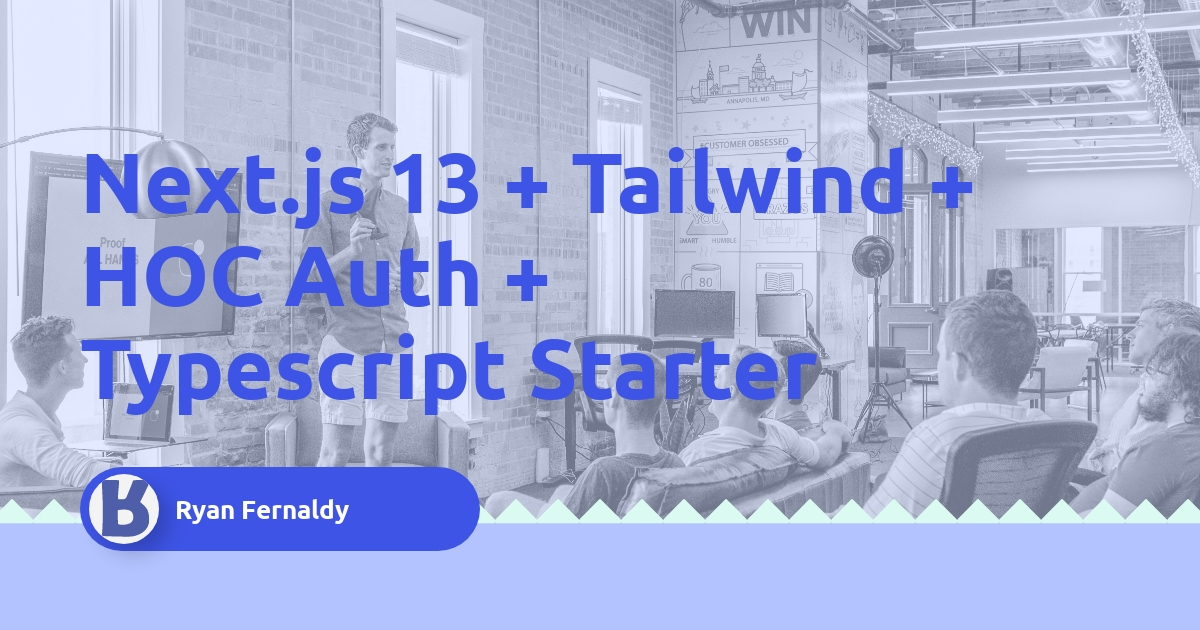
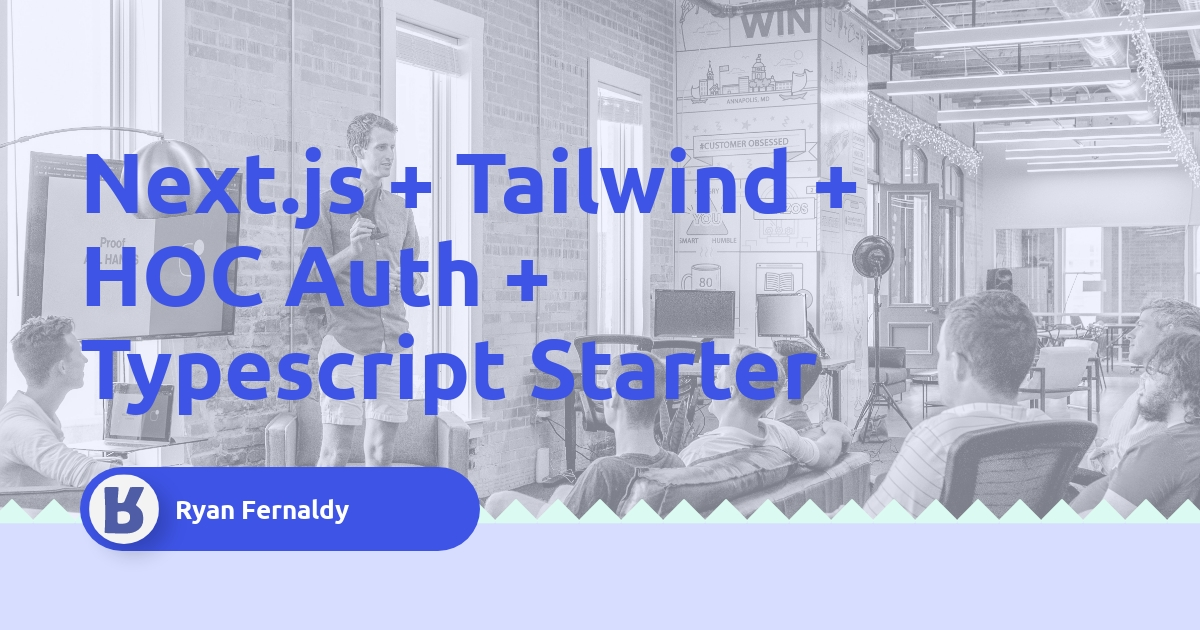
docs: update README.md

Changed region(s): [[0.0, 0.754, 1.0, 1.0], [0.3083, 0.2111, 0.8325, 0.3619]]

diff --git a/README.md b/README.md
@@ -1,4 +1,4 @@
-# Next.js + Tailwind CSS + HOC Authentication + TypeScript Starter and Boilerplate
+# Next.js + Tailwind CSS + HOC Auth + TypeScript Starter and Boilerplate
 
 <div align="center">
   <h2>🔋 ts-nextjs-tailwind-hoc-starter</h2>
@@ -11,7 +11,7 @@
 
 This repository is 🔋 battery packed with:
 
-- ⚡ Next.js 13 with App Router
+- ⚡ Next.js 14 with App Router
 - ⚛ React 18
 - ✨ TypeScript
 - 💨 Tailwind CSS 3 — Configured with CSS Variables to extend the **primary** color
@@ -96,5 +96,5 @@ TEMPLATE
 - [sitename](https://sitelink.com)
 -->
 
-- [Next.js + Tailwind CSS + TypeScript](tsnext-tw.thcl.dev) ([Source](https://github.com/theodorusclarence/ts-nextjs-tailwind-starter))
+- [Next.js + Tailwind CSS + TypeScript](https://tsnext-tw.thcl.dev) ([Source](https://github.com/theodorusclarence/ts-nextjs-tailwind-starter))
 - [TailAdmin](https://nextjs-demo.tailadmin.com/) ([Source](https://github.com/TailAdmin/free-nextjs-admin-dashboard))
